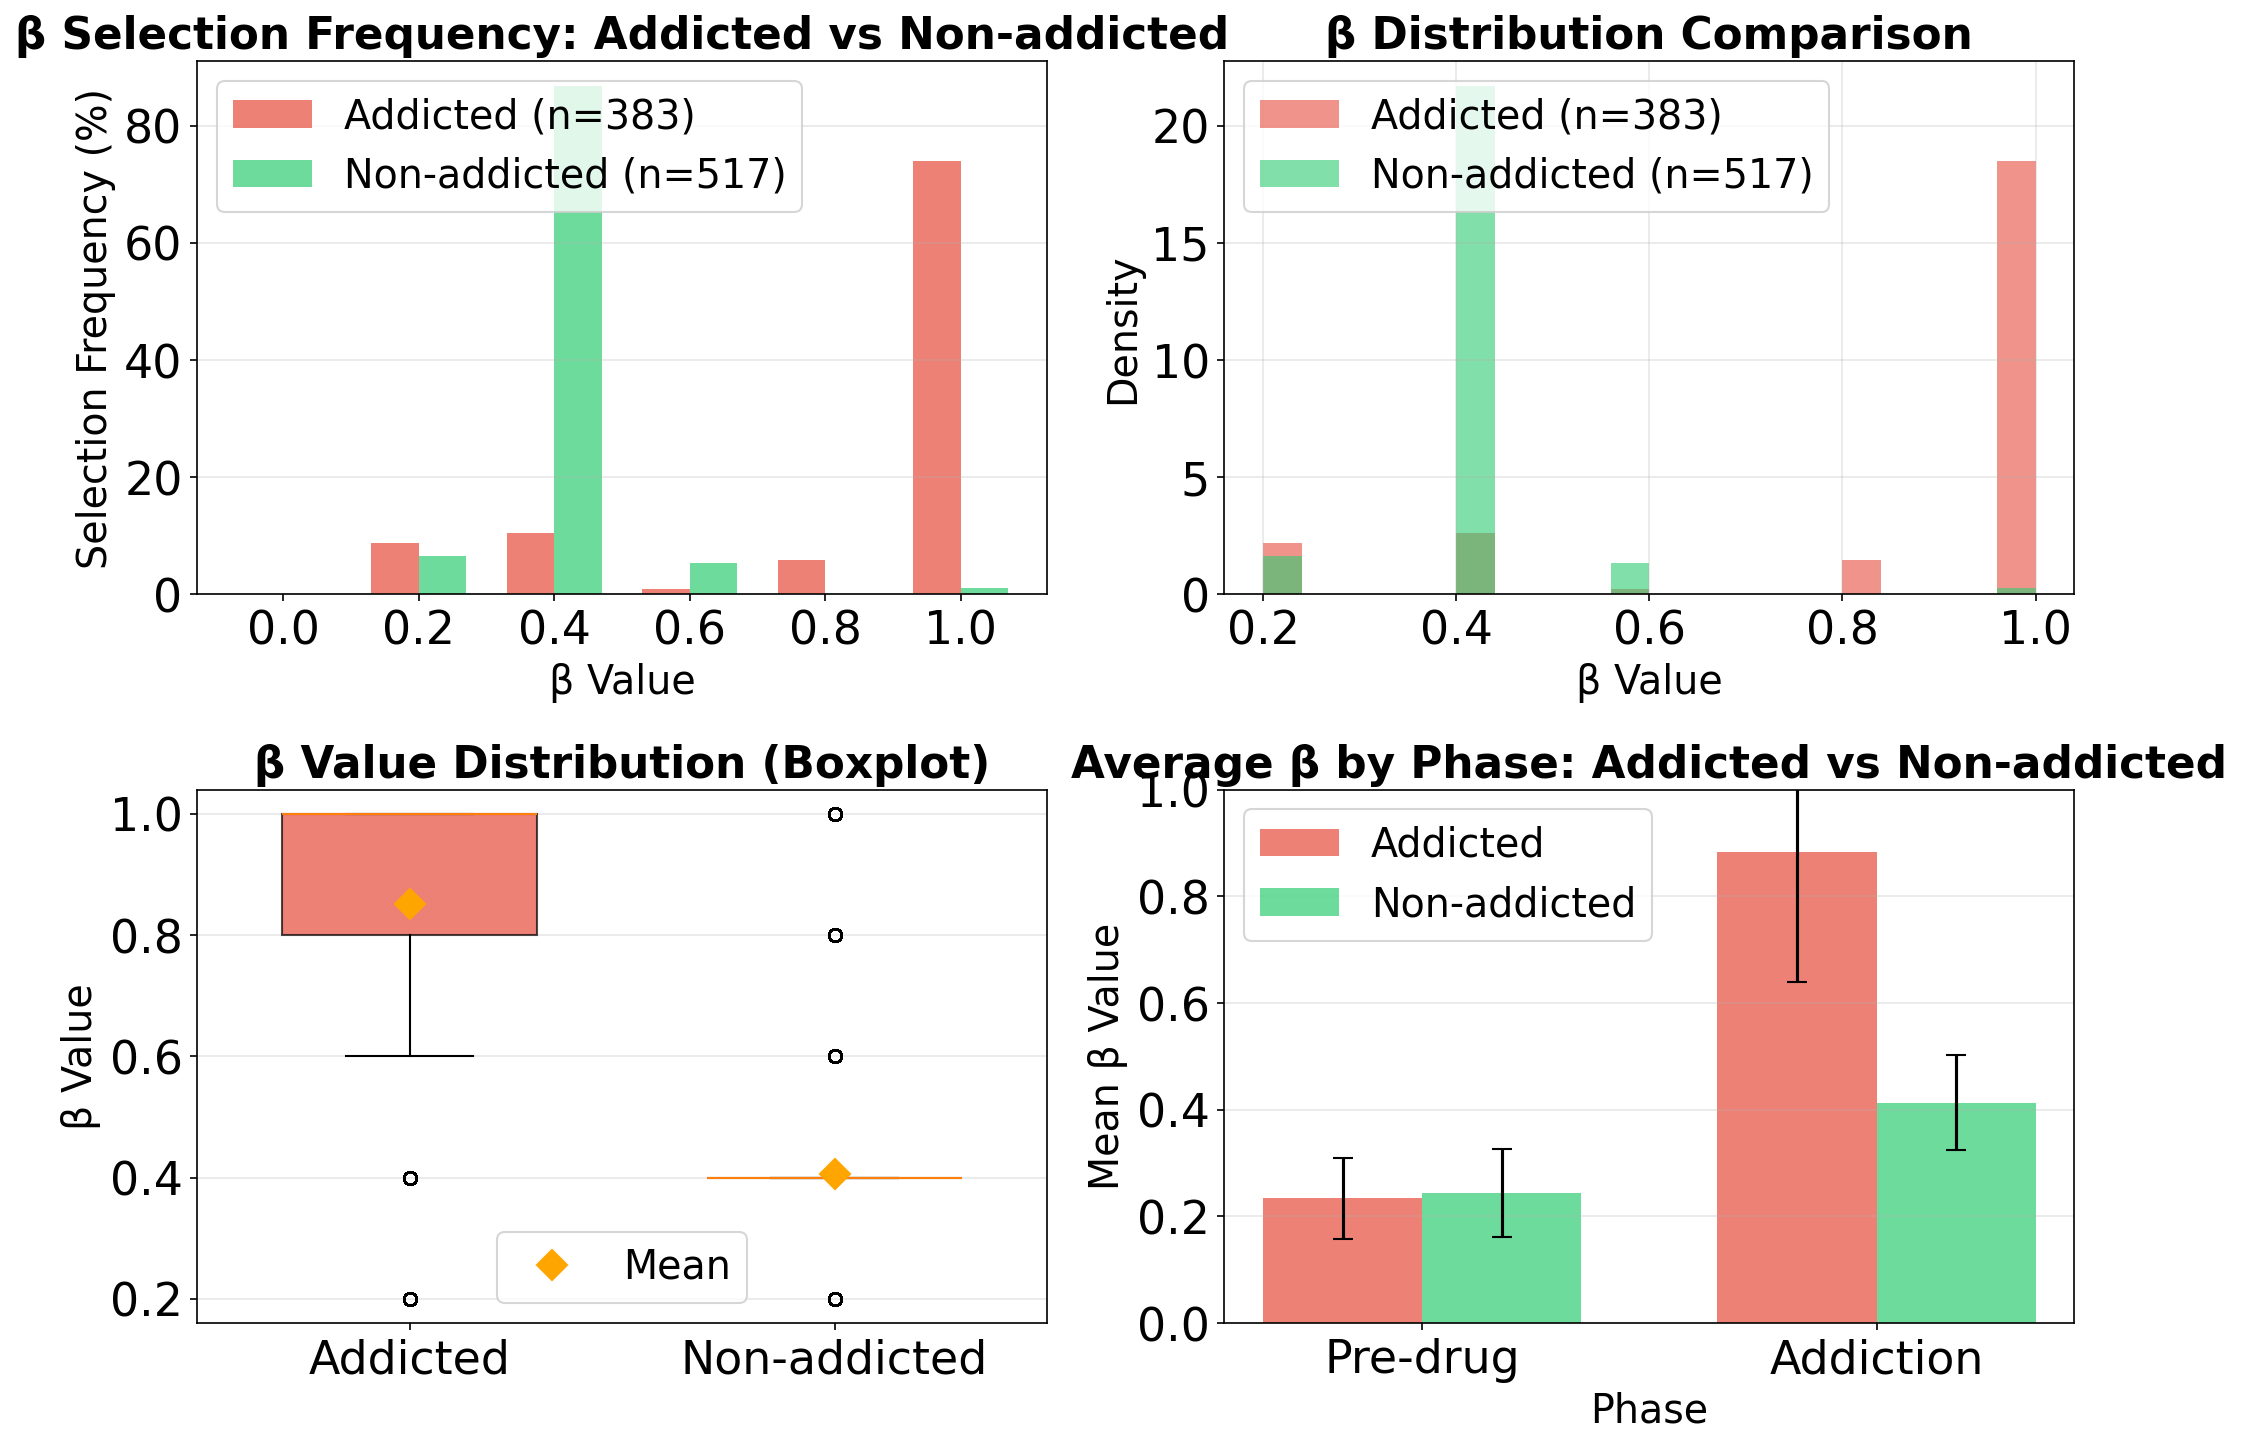
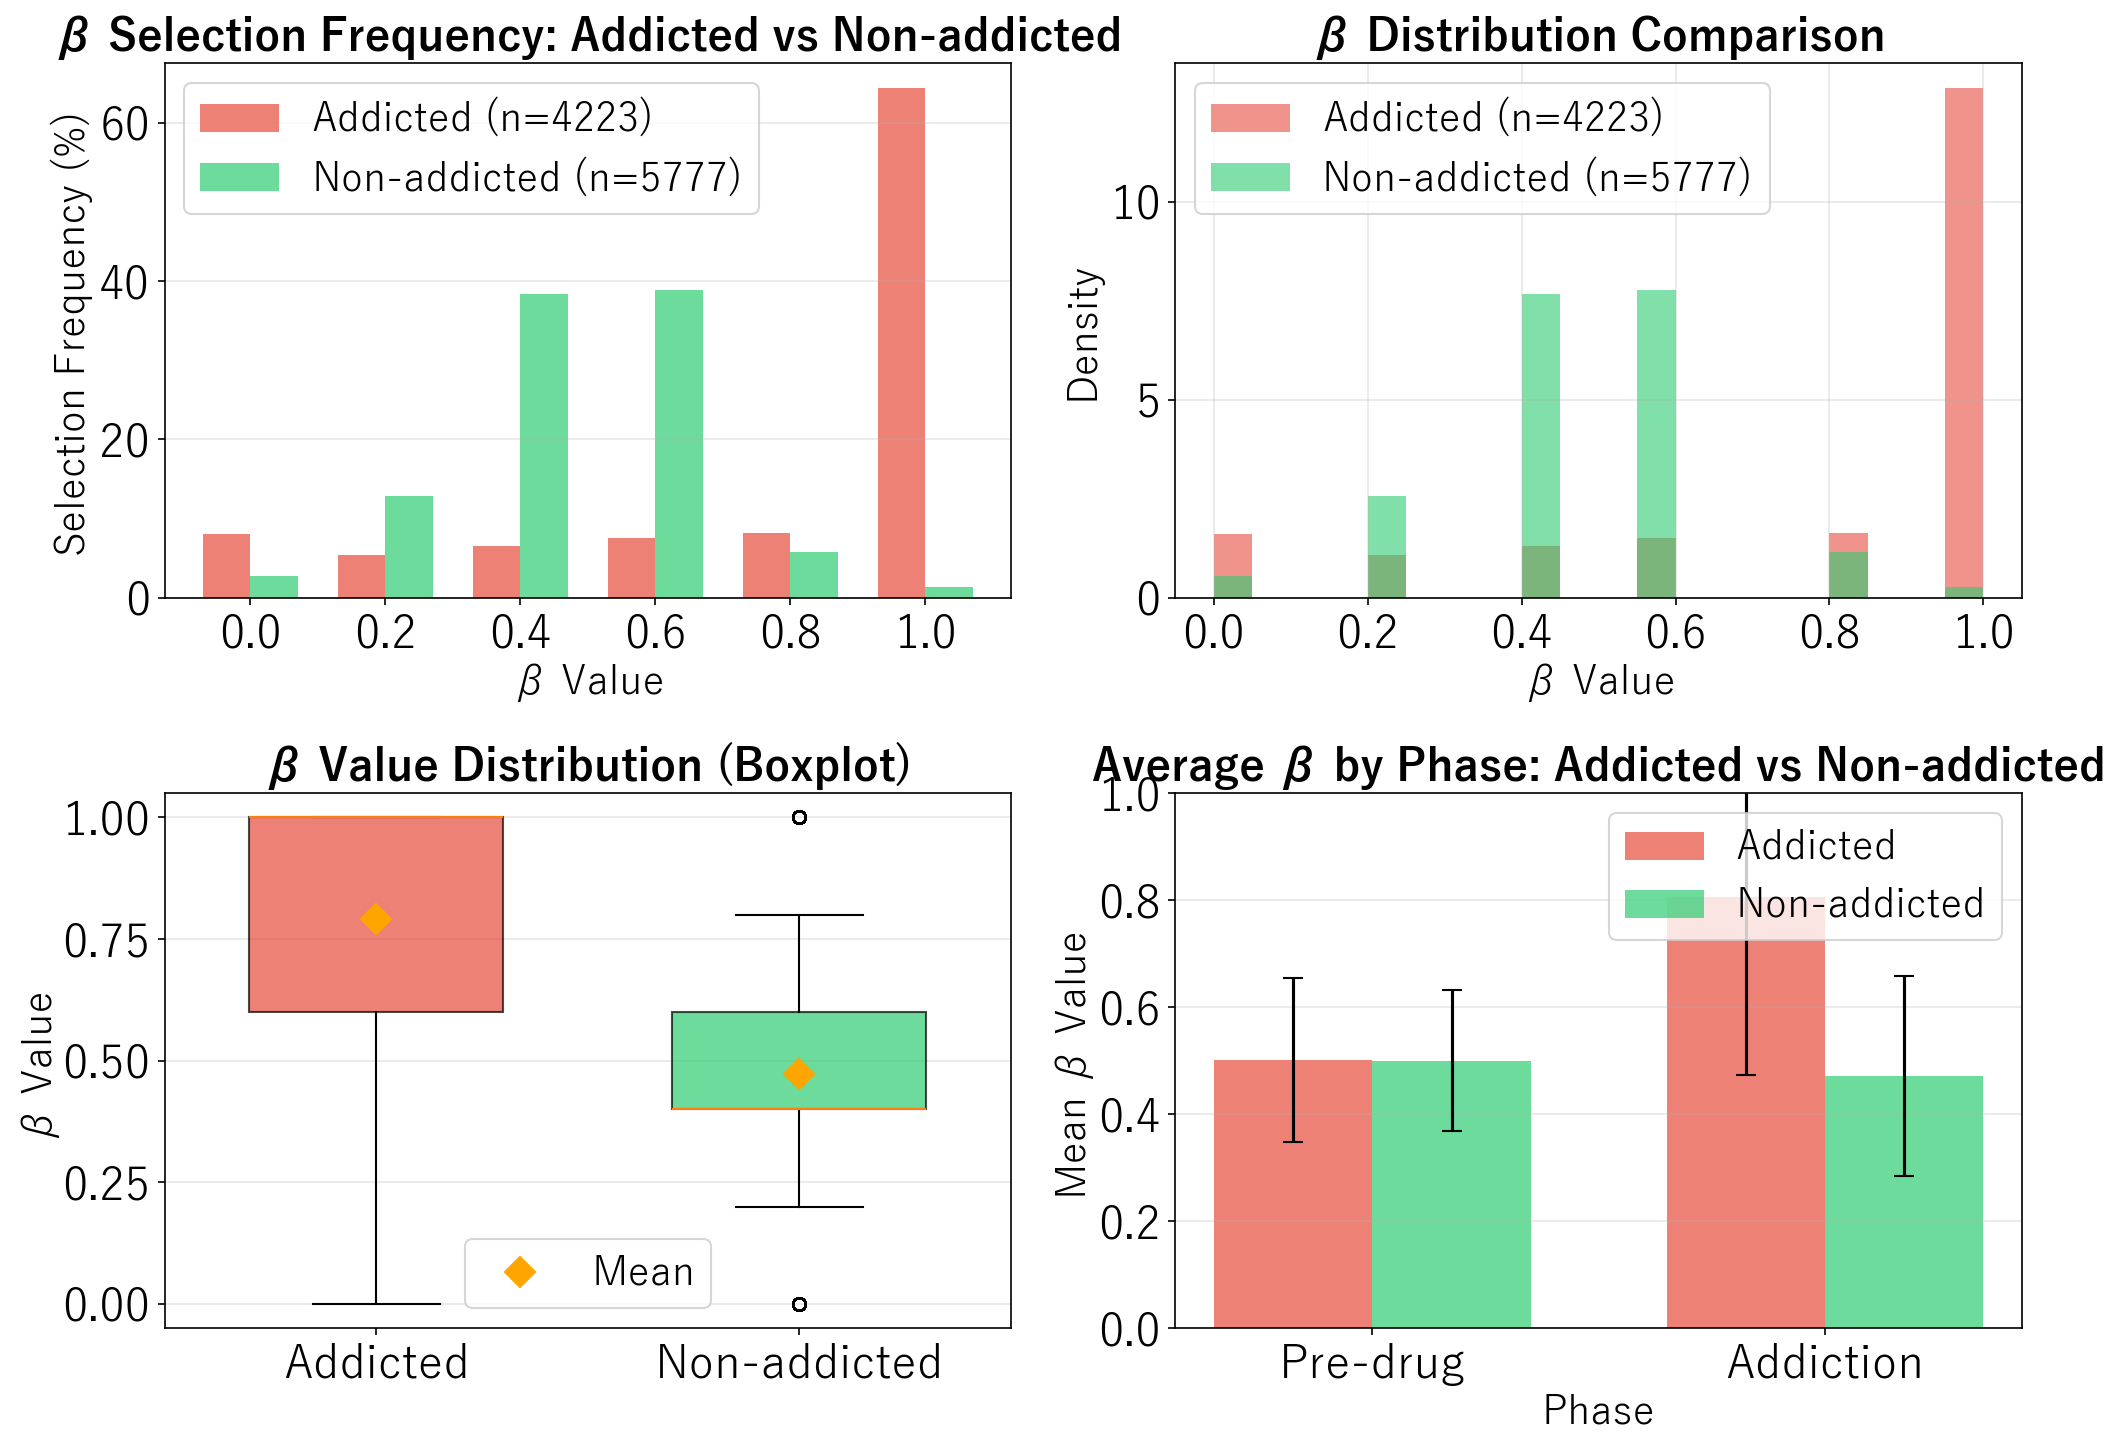
不確実性ベースβの適応を強化し、TD誤差の閾値を調整して学習の安定性を向上させる

diff --git a/addiction_rl_sim.py b/addiction_rl_sim.py
@@ -429,6 +429,7 @@ class HybridAgent:
         self.td_error_window = 10
         self.td_bias_scale = 0.5  # TD誤差が大きいときMB寄りにバイアス
         self.epsilon_beta_local = EPSILON_BETA
+        self.beta_history: List[float] = []
 
         # 不確実性ベースβ適応用
         self.td_window_size = 20
@@ -452,9 +453,10 @@ class HybridAgent:
         else:
             # 不確実性βを使わない場合はTDバイアスを強める
             if not self.use_uncertainty_beta:
-                self.td_error_threshold = max(0.5, self.td_error_threshold * 0.5)
-                self.td_bias_scale = 1.0
-                self.epsilon_beta_local = EPSILON_BETA * 0.5
+                self.td_error_threshold = max(0.25, self.td_error_threshold * 0.4)
+                self.td_bias_scale = 1.5
+                self.epsilon_beta_local = max(0.02, EPSILON_BETA * 0.3)
+                self.q_beta = np.array([0.0, 0.08, 0.12, 0.12, 0.08, 0.0], dtype=np.float64)
         
         # メンタルモデル (Numba用にfloat64で定義)
         # [今の状態, 行動, 次の状態] に何回遷移したかを記録する3次元配列
@@ -526,6 +528,7 @@ class HybridAgent:
         # βを選択（状態に関係なくグローバルに選択）
         self.current_beta_idx = self.select_beta()
         current_beta = BETA_VALUES[self.current_beta_idx]
+        self.beta_history.append(current_beta)
         
         # MB Planning (JIT function call)
         self._plan_q_values()
@@ -546,37 +549,30 @@ class HybridAgent:
 
     # モデルの学習機構
     def observe(self, state: int, action: int, reward: float, next_state: int, phase_idx: int):
-        # --- β学習の更新(固定β値モードではスキップ) ---
-        if self.fixed_beta is None and self.prev_beta_idx is not None:
-            # 前のステップで選択したβのQ値を更新
-            # TD学習: Q(β) ← Q(β) + α * (R + γ*max_β' Q(β') - Q(β))
-            td_target_beta = reward + DISCOUNT * np.max(self.q_beta)
-            self.q_beta[self.prev_beta_idx] += ALPHA_BETA * (
-                td_target_beta - self.q_beta[self.prev_beta_idx]
-            )
-        
-        # 次回のβ更新のために現在のβインデックスを記憶(固定β値モードではスキップ)
-        if self.fixed_beta is None:
-            self.prev_beta_idx = self.current_beta_idx
-        
-        # --- Model-Free (直感) の更新 ---
-        # Q学習の式: Q(s,a) ← Q(s,a) + α * (R + γ*maxQ(s') - Q(s,a))
+        # Model-free TD 誤差と更新
         td_target = reward + DISCOUNT * np.max(self.q_mf[next_state])
         td_error = td_target - self.q_mf[state, action]
 
-        # TD誤差の履歴を保持（β適応用）
         self.td_error_history.append(td_error)
         self.recent_td_errors.append(td_error)
         if len(self.recent_td_errors) > self.td_error_window:
             self.recent_td_errors.pop(0)
 
-        # 不確実性ベースβのために移動平均を更新
         if self.use_uncertainty_beta:
             if len(self.td_error_history) > self.td_window_size:
-                window = self.td_error_history[-self.td_window_size:]
-                self.td_error_ma = np.mean(np.abs(window))
+                recent_for_ma = self.td_error_history[-self.td_window_size:]
+                self.td_error_ma = np.mean(np.abs(recent_for_ma))
             else:
                 self.td_error_ma = np.mean(np.abs(self.td_error_history)) if self.td_error_history else 0.0
+
+        if self.fixed_beta is None and self.prev_beta_idx is not None:
+            td_target_beta = reward + DISCOUNT * np.max(self.q_beta)
+            self.q_beta[self.prev_beta_idx] += ALPHA_BETA * (
+                td_target_beta - self.q_beta[self.prev_beta_idx]
+            )
+
+        if self.fixed_beta is None:
+            self.prev_beta_idx = self.current_beta_idx
 
         self.q_mf[state, action] += ALPHA_MF * td_error
         # MB Model Update (論文準拠)
@@ -1532,7 +1528,7 @@ def plot_beta_analysis(beta_stats: BetaStatistics, output_prefix: str = "beta_an
                          linewidth=1.5, alpha=0.5)
         
         ax7_1.set_ylabel('Usage Rate (%)', fontsize=22)
-        ax7_1.set_ylim(0, 26)
+        
         ax7_1.set_title(f'Windowed β Usage: Addicted (n={n_addicted_agents} agents)', 
                    fontsize=21, fontweight='bold')
         ax7_1.legend(loc='best', fontsize=19, ncol=3)
@@ -1553,7 +1549,7 @@ def plot_beta_analysis(beta_stats: BetaStatistics, output_prefix: str = "beta_an
         
         ax7_2.set_xlabel('Step (window center)', fontsize=22)
         ax7_2.set_ylabel('Usage Rate (%)', fontsize=22)
-        ax7_2.set_ylim(0, 26)
+        
         ax7_2.set_title(f'Windowed β Usage: Non-addicted (n={n_non_addicted_agents} agents)', 
                    fontsize=21, fontweight='bold')
         ax7_2.legend(loc='best', fontsize=19, ncol=3)

diff --git a/large_scale_volatility_experiment.py b/large_scale_volatility_experiment.py
@@ -430,9 +430,13 @@ class AdaptiveBetaAgent:
         else:
             # If uncertainty-based β is disabled, strengthen TD-based adaptation
             if not self.use_uncertainty_beta:
-                self.td_error_threshold = max(0.5, self.td_error_threshold * 0.5)
-                self.td_bias_scale = 1.0
-                self.epsilon_beta_local = EPSILON_BETA * 0.5
+                # Lower the TD threshold and increase MB bias so adaptive β shifts faster
+                self.td_error_threshold = max(0.25, self.td_error_threshold * 0.4)
+                self.td_bias_scale = 1.5
+                # Reduce random beta exploration to stabilize around learned beta
+                self.epsilon_beta_local = max(0.02, EPSILON_BETA * 0.3)
+                # Small prior favoring mid-range betas for stability under volatility
+                self.q_beta = np.array([0.0, 0.08, 0.12, 0.12, 0.08, 0.0], dtype=np.float64)
         
         self.model_counts = np.zeros((NUM_STATES, NUM_ACTIONS, NUM_STATES), dtype=np.float64)
         self.model_rewards = np.zeros((NUM_STATES, NUM_ACTIONS, NUM_STATES), dtype=np.float64)
